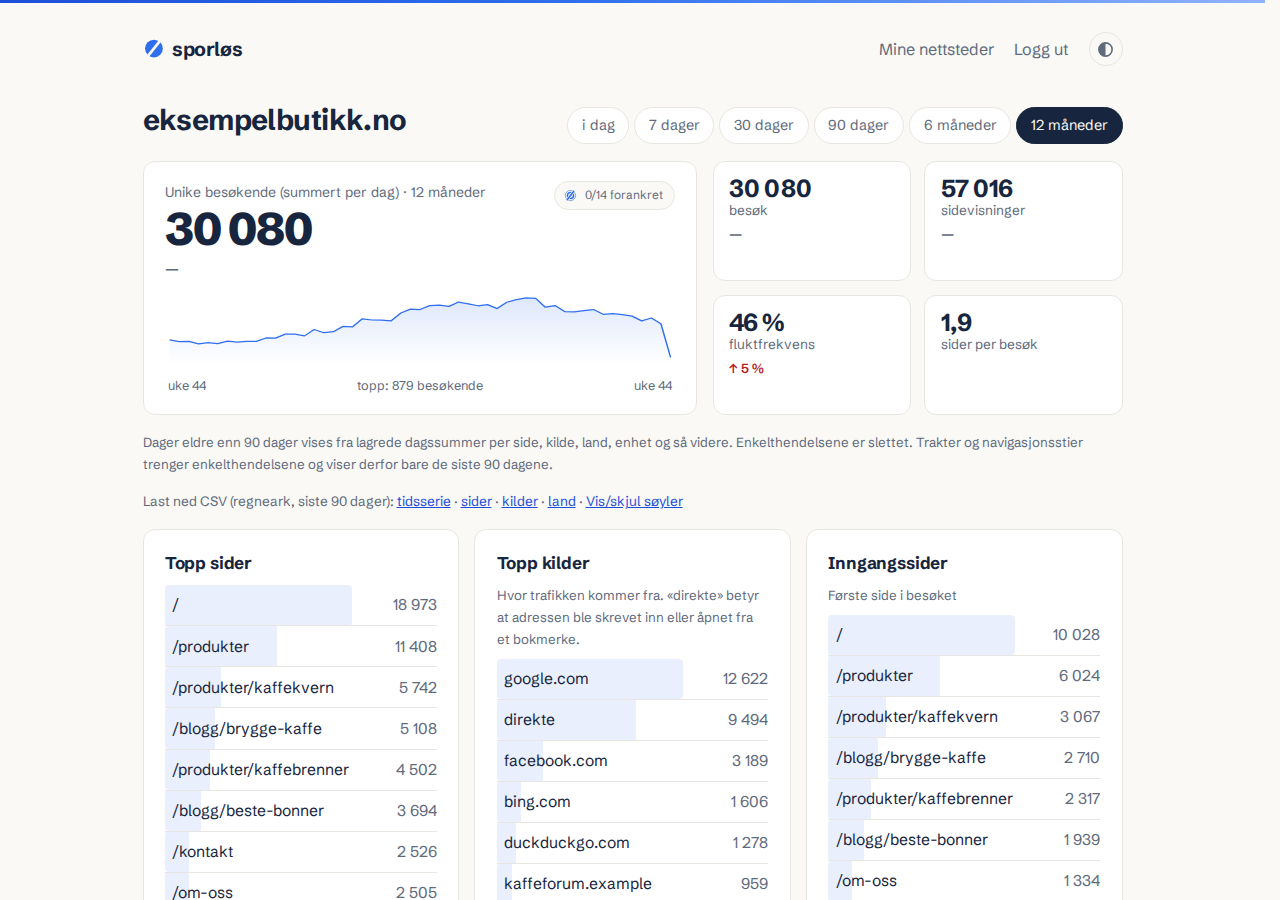
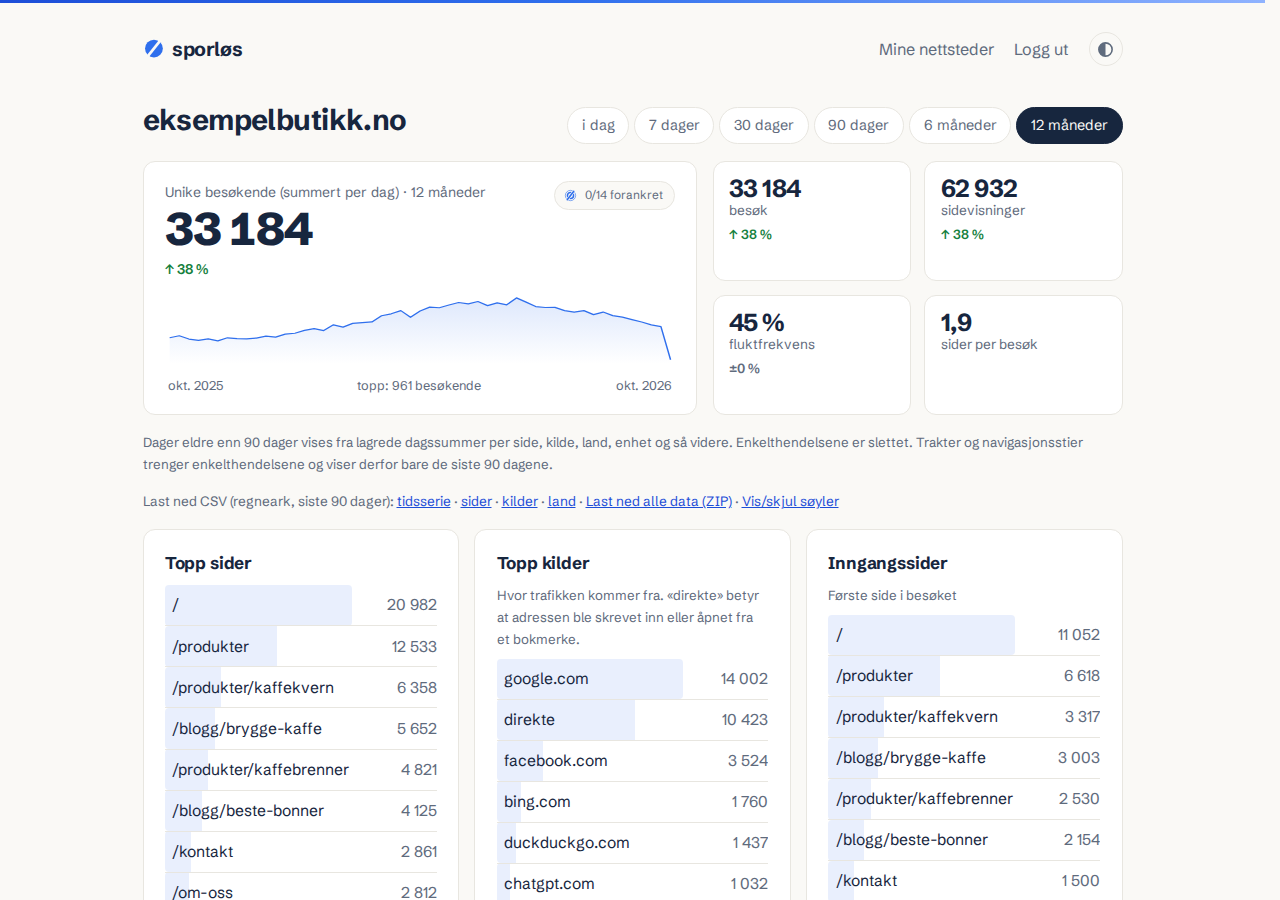
feat: export daily breakdowns, month labels on long charts
The full data export (ZIP) gets daglige_fordelinger.csv: every daily_breakdowns
row for the site's whole history, and its README no longer says the breakdowns
cover only 90 days. The 6- and 12-month charts label their ends with month and
year instead of two identical week numbers. New copy calls the visitor hash
«besøkskoden».

diff --git a/app/export.py b/app/export.py
@@ -140,6 +140,7 @@ SITE_FILES: list[tuple[str, str]] = [
     ("nettsted.csv", "Nettstedet: domene, nettsted-ID og når det ble opprettet."),
     ("tidsserie.csv", "Sidevisninger og unike besøkende per dag, fra de rå hendelsene som fortsatt er lagret (høyst 90 dager)."),
     ("daglige_tall.csv", "Dagstall for HELE historikken: sidevisninger, unike, økter og fluktfrekvens per dag, med fingeravtrykk (rollup_hash) og BSV-forankring (txid, merkle_root, merkle_proof). Se under «Bevis»."),
+    ("daglige_fordelinger.csv", "Fordelinger per dag for HELE historikken, også etter at de rå hendelsene er slettet: én rad per dag, dimensjon (side, kilde, land, enhet, kampanje, hendelse, kjøp osv.) og verdi, med antall, unike besøkende den dagen og ev. omsetning. Uten besøkskoden. Inntil 500 verdier per dimensjon per dag."),
     ("sider.csv", "Sider: sidevisninger og unike besøkende per side (rå hendelser, høyst 90 dager)."),
     ("inngangssider.csv", "Inngangssider: første side i en økt, med antall økter."),
     ("utgangssider.csv", "Utgangssider: siste side i en økt, med antall økter."),
@@ -205,6 +206,33 @@ class SiteExport:
                   "rollup_hash", "merkle_root", "merkle_proof", "txid", "forankret"]
         rows = _paged("daily_rollups", cols, ["day"], f"site_id = {P}", (self.sid,))
         return header, ([_day(r["day"])] + [r[c] for c in cols[1:]] for r in rows)
+
+    # dim codes in daily_breakdowns (app/history.py) -> Norwegian names in the file
+    _BD_DIMS = {
+        "kpi": "totalt", "page": "side", "source": "kilde", "country": "land", "region": "region",
+        "device": "enhet", "browser": "nettleser", "os": "operativsystem", "campaign": "kampanje",
+        "entry": "inngangsside", "exit": "utgangsside", "event": "hendelse",
+        "ai": "ki_assistent", "ai_total": "ki_assistenter_totalt", "ecom": "ehandel",
+        "ecom_source": "ehandel_kilde", "ecom_payment": "ehandel_betalingsmaate",
+        "product": "ehandel_produkt", "bot": "robot", "bot_ai_path": "ki_crawler_side",
+    }
+
+    _BD_KPI = {"pageviews": "sidevisninger", "visitors": "unike_besoekende", "sessions": "okter",
+               "bounces": "okter_med_en_sidevisning"}
+
+    def daglige_fordelinger(self):
+        header = ["dag", "dimensjon", "verdi", "valuta", "antall", "unike_besoekende", "omsetning"]
+        if not _table_exists("daily_breakdowns"):
+            return header, []
+        cols = ["day", "dim", "key", "currency", "n", "visitors", "revenue_cents"]
+        rows = _paged("daily_breakdowns", cols, ["day", "dim", "key", "currency"],
+                      f"site_id = {P}", (self.sid,))
+        return header, (
+            [_day(r["day"]), self._BD_DIMS.get(r["dim"], r["dim"]),
+             self._BD_KPI.get(r["key"], r["key"]) if r["dim"] == "kpi" else r["key"], r["currency"], r["n"],
+             r["visitors"], None if r["revenue_cents"] is None else money(r["revenue_cents"])]
+            for r in rows
+        )
 
     def sider(self):
         return self._group("path", "side")
@@ -495,8 +523,9 @@ def readme_text(scope: str, label: str, now: datetime, site_folders: dict[str, s
         "",
         "Hva som er med, og hva som ikke er det",
         "- Rå hendelser lagres i 90 dager. Eldre rader er slått sammen til dagstall, og de ligger i",
-        "  daglige_tall.csv for hele historikken. Fordelingene (sider, kilder, land osv.) er regnet ut",
-        "  fra de rå hendelsene, så de dekker de siste 90 dagene.",
+        "  daglige_tall.csv for hele historikken. Fordelingene per dag (sider, kilder, land osv.) ligger",
+        "  i daglige_fordelinger.csv for hele historikken. De andre fordelingsfilene (sider.csv,",
+        "  kilder.csv osv.) er regnet ut fra de rå hendelsene, så de dekker de siste 90 dagene.",
         "- Besøkskoden (visitor_hash) er IKKE med. Det er en enveis-hash som skifter hver",
         "  dag og som vi bruker for å telle unike besøkende. Du får hendelsene uten den.",
         "- Passord, API-nøkler og tilkoblinger til Google-kontoen din er ikke med.",

diff --git a/tests/test_export_and_warning.py b/tests/test_export_and_warning.py
@@ -259,6 +259,18 @@ class SiteExportTest(unittest.TestCase):
         self.assertEqual(table(self.files, "roboter.csv")[1][1:], ["ai", "GPTBot", "/", "4"])
         self.assertEqual(table(self.files, "sokestatistikk.csv")[1][4:], ["3", "40", "7,5"])
 
+    def test_daily_breakdowns_are_exported(self):
+        # daily_breakdowns (app/history.py) outlive the raw events; the export carries them.
+        rows = table(self.files, "daglige_fordelinger.csv")
+        self.assertEqual(rows[0], ["dag", "dimensjon", "verdi", "valuta", "antall",
+                                   "unike_besoekende", "omsetning"])
+        day = utcnow().strftime("%Y-%m-%d")
+        got = {(r[1], r[2], r[3]): r[4:] for r in rows[1:] if r[0] == day}
+        self.assertEqual(got[("totalt", "sidevisninger", "")][0], "7")
+        self.assertEqual(got[("side", "/side-0", "")], ["3", "2", ""])
+        self.assertEqual(got[("ehandel", "", "NOK")], ["1", "", "123,45"])
+        self.assertNotIn(SECRET_HASH, self.files["daglige_fordelinger.csv"].decode("utf-8-sig"))
+
     def test_big_tables_are_paged_without_losing_or_repeating_rows(self):
         tid, _, _ = account("Stor AS")
         site = store.create_site(tid, "stor.no")

diff --git a/app/main.py b/app/main.py
@@ -4862,7 +4862,13 @@ def _area_chart(series, width=880, height=170, days=7):
     line = "M" + " L".join(f"{x:.1f},{y:.1f}" for x, y in pts)
     area = f"{line} L{pts[-1][0]:.1f},{height - pad_bot} L{pts[0][0]:.1f},{height - pad_bot} Z"
     # Aksen holdes kort (uke-spenn bryter over to linjer på mobil) — detaljene bor i hoveren.
-    if unit == "week":
+    if unit == "week" and days > 90:
+        # A year of weeks starts and ends on the same week number; month + year says which.
+        def _mnd(d):  # «nov. 2025», «mai 2026»
+            name = _MND[d.month]
+            return f"{name if len(name) <= 4 else name[:3] + '.'} {d.year}"
+        first, last = _mnd(win_start), _mnd(today)
+    elif unit == "week":
         first = escape(_fmt_bucket(series[0]["bucket"], unit).split(" · ")[0])
         last = escape(_fmt_bucket(series[-1]["bucket"], unit).split(" · ")[0])
     else:

diff --git a/tests/test_history.py b/tests/test_history.py
@@ -59,6 +59,11 @@ def tearDownModule():
 
 
 def _wipe():
+    with store._cursor() as cur:  # a shared Postgres may hold other test modules' accounts
+        cur.execute("SELECT id FROM tenants")
+        ids = [int(r["id"]) for r in cur.fetchall()]
+    for tid in ids:
+        store.delete_tenant(tid)
     with store._cursor() as cur:
         for t in ("event_items", "events", "daily_rollups", "daily_breakdowns", "bot_daily",
                   "goals", "funnels", "api_keys", "sites", "tenants"):
